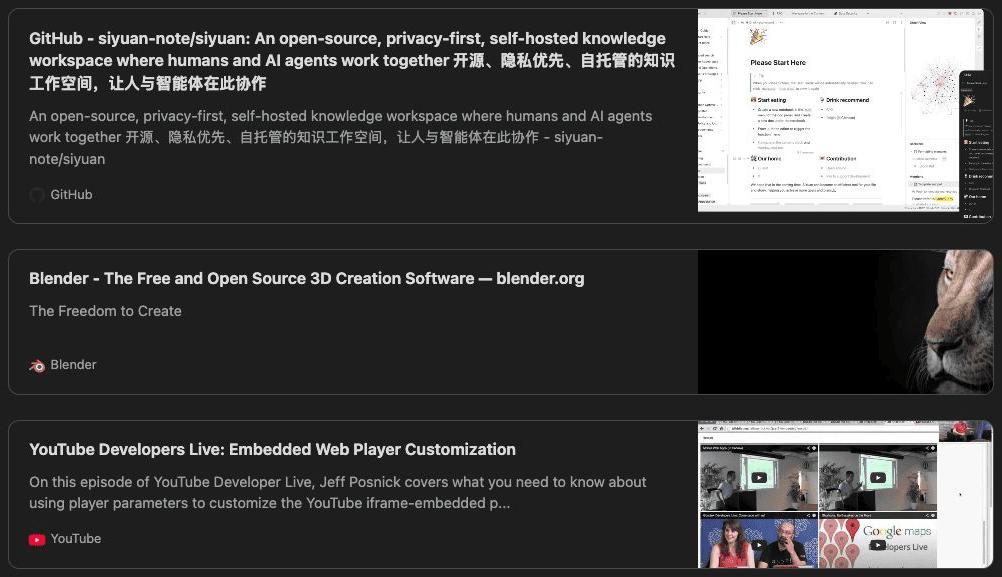
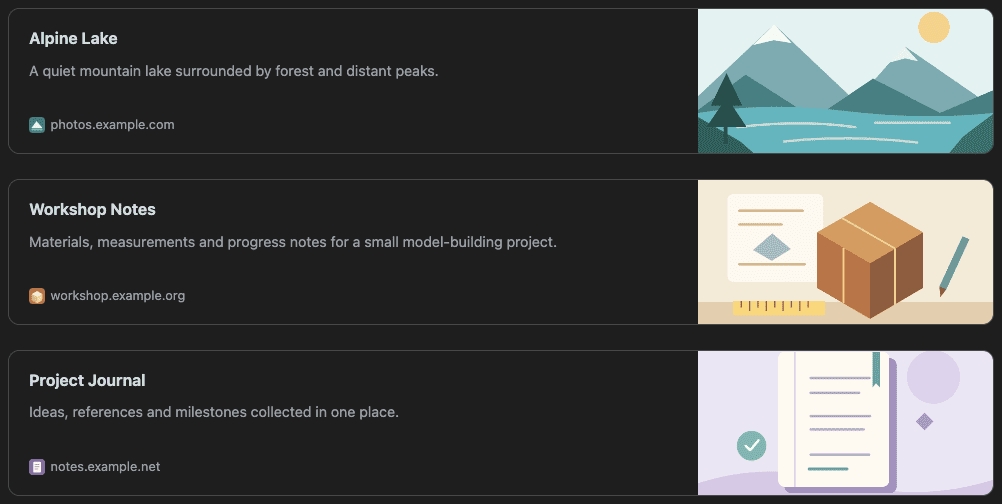
chore: prepare v0.1.1 attribution cleanup
- replace passive product screenshots with controlled synthetic examples
- remove third-party preview artwork from passive card documentation
- improve attribution for generated webpack runtime helpers
- avoid unsupported license claims for the external SiYuan SDK
- bump plugin and package metadata to 0.1.1
- preserve native YouTube embed documentation
- keep runtime behavior unchanged

diff --git a/README.de-DE.md b/README.de-DE.md
@@ -6,7 +6,9 @@ Passive Rich Link Cards und native YouTube-Einbettungen in SiYuan. Bookmark-Kart
 oEmbed-Link-/Foto-Karten teilen ein responsives Design und speichern Metadaten im Dokument.
 Link Card erzeugt einen passiven Snapshot, Embed ein unterstütztes abspielbares YouTube-Video.
 
-![Drei aktuelle passive Link-Karten im hellen Design](docs/screenshots/link-cards-light.png)
+![Drei synthetische Beispiel-Link-Karten im hellen Design](docs/screenshots/link-cards-light.png)
+
+Die passiven Kartenbilder verwenden fiktive Beispiel-URLs sowie projekteigene Texte, Illustrationen und Favicons.
 
 ## Funktionen
 
@@ -17,7 +19,7 @@ Link Card erzeugt einen passiven Snapshot, Embed ein unterstütztes abspielbares
 - Deutsche und englische Oberfläche, URL-Vorbelegung und natives Undo/Redo.
 - Gespeichertes JSON bleibt bei deaktiviertem Plugin lesbar.
 
-![Dieselben drei passiven Link-Karten im dunklen Design](docs/screenshots/link-cards-dark.png)
+![Dieselben drei synthetischen Beispiel-Link-Karten im dunklen Design](docs/screenshots/link-cards-dark.png)
 
 ## Link Cards erstellen
 
@@ -131,4 +133,4 @@ verteilt. Das Paket ist nicht zur Veröffentlichung auf npm vorgesehen.
 ## Lizenz
 
 [MIT](LICENSE). Die [Drittanbieterhinweise](THIRD_PARTY_NOTICES.md) dokumentieren die
-SiYuan-Buildkonventionen und Entwicklungsabhängigkeiten.
+SiYuan-Buildkonventionen, generierte webpack-Laufzeithelfer und die externe Entwicklungs-/Hostabhängigkeit.

diff --git a/README.md b/README.md
@@ -6,7 +6,9 @@ Passive rich Link Cards and native YouTube embeds in SiYuan. Bookmark and suppor
 link/photo cards share one responsive layout and save their metadata in the document.
 Choose Link Card for a passive snapshot or Embed for a supported playable YouTube video.
 
-![Three current passive Link Cards in light theme](docs/screenshots/link-cards-light.png)
+![Three synthetic example Link Cards in light theme](docs/screenshots/link-cards-light.png)
+
+The passive-card screenshots use fictional example URLs and project-created text, illustrations and favicons.
 
 ## Features
 
@@ -17,7 +19,7 @@ Choose Link Card for a passive snapshot or Embed for a supported playable YouTub
 - English and German interface, URL prefill and native Undo/Redo.
 - Saved JSON remains readable when the plugin is disabled.
 
-![The same three passive Link Cards in dark theme](docs/screenshots/link-cards-dark.png)
+![The same three synthetic example Link Cards in dark theme](docs/screenshots/link-cards-dark.png)
 
 ## Creating Link Cards
 
@@ -125,5 +127,5 @@ The package is not intended for npm publication.
 
 ## License
 
-[MIT](LICENSE). See [third-party notices](THIRD_PARTY_NOTICES.md) for the SiYuan build conventions
-and development dependencies.
+[MIT](LICENSE). See [third-party notices](THIRD_PARTY_NOTICES.md) for the SiYuan build conventions,
+generated webpack runtime helpers and external development/host dependency.

diff --git a/THIRD_PARTY_NOTICES.md b/THIRD_PARTY_NOTICES.md
@@ -26,6 +26,24 @@ LIABILITY, WHETHER IN AN ACTION OF CONTRACT, TORT OR OTHERWISE, ARISING FROM,
 OUT OF OR IN CONNECTION WITH THE SOFTWARE OR THE USE OR OTHER DEALINGS IN THE
 SOFTWARE.
 
-The `siyuan` SDK is development-only and external to the bundle; runtime is supplied
-by SiYuan. All remaining packages are development/test/build tools, recorded in
-`package-lock.json`. There are no bundled third-party runtime dependencies.
+## Generated webpack runtime helpers
+
+The distributed JavaScript may contain small runtime helpers generated by webpack
+5.107.2. This notice applies only to those helpers.
+
+Copyright JS Foundation and other contributors
+
+Licensed under the MIT License. The MIT permission notice and warranty disclaimer
+reproduced above also apply to these helpers.
+
+Source: [webpack license](https://github.com/webpack/webpack/blob/cfb24a4af6ea68034b25f80e14f95aaeaad6d596/LICENSE).
+
+## External SiYuan SDK
+
+The `siyuan@1.2.9` SDK from `siyuan-note/petal` is used for development, types and
+host integration. It remains external to the production bundle; SiYuan supplies
+the runtime. No SDK implementation or type files are distributed in the plugin
+package. No license declaration is supplied by the inspected SDK package, and
+this notice does not assign it a license.
+
+Other packages are development/test/build tools recorded in `package-lock.json`.
